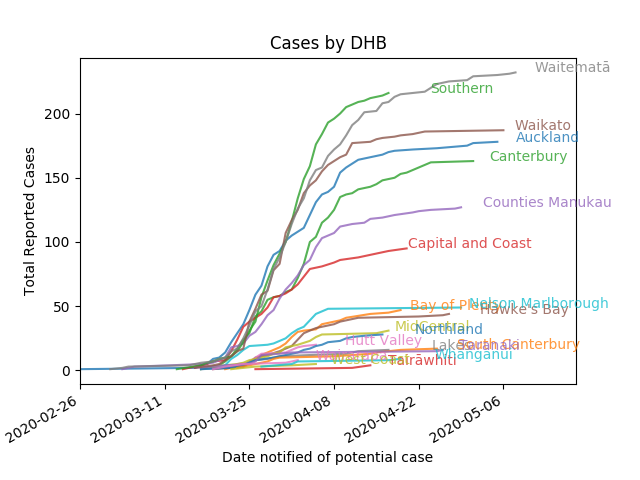
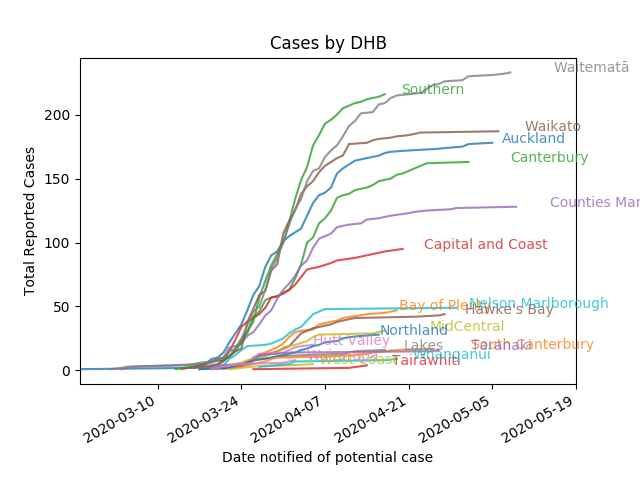
Updated data

diff --git a/NZModel/nz_data.py b/NZModel/nz_data.py
@@ -28,7 +28,7 @@ header=3
 #filename = "covidcase_list_1_apr_2020.xlsx"
 date_column = date_column_sus = "Date notified of potential case"
 #filename = "covid-cases-7may20.xlsx"
-filename = "covid-cases-9may20_0.xlsx"
+filename = "covid-cases10_may_2020-updated.xlsx"
 
 # The data keeps getting worse *sigh*
 def date_decoder(x):
